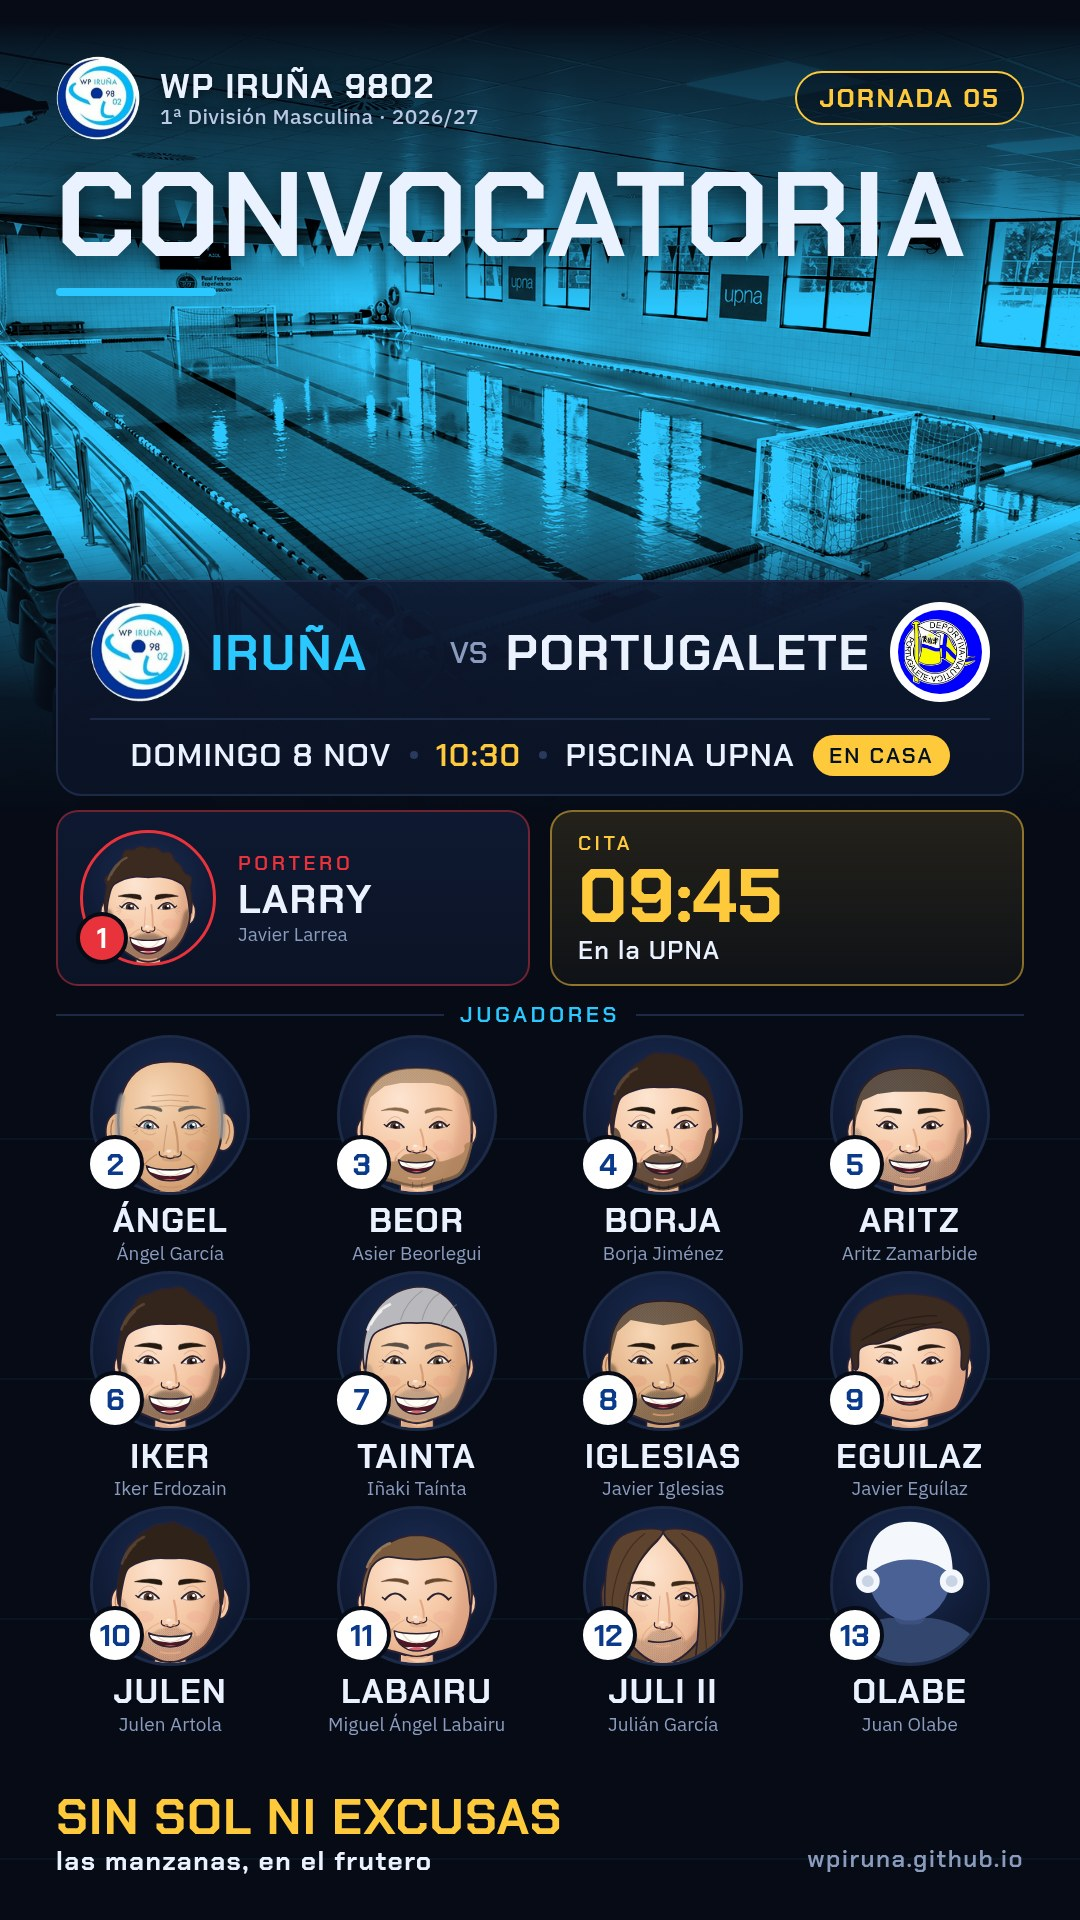
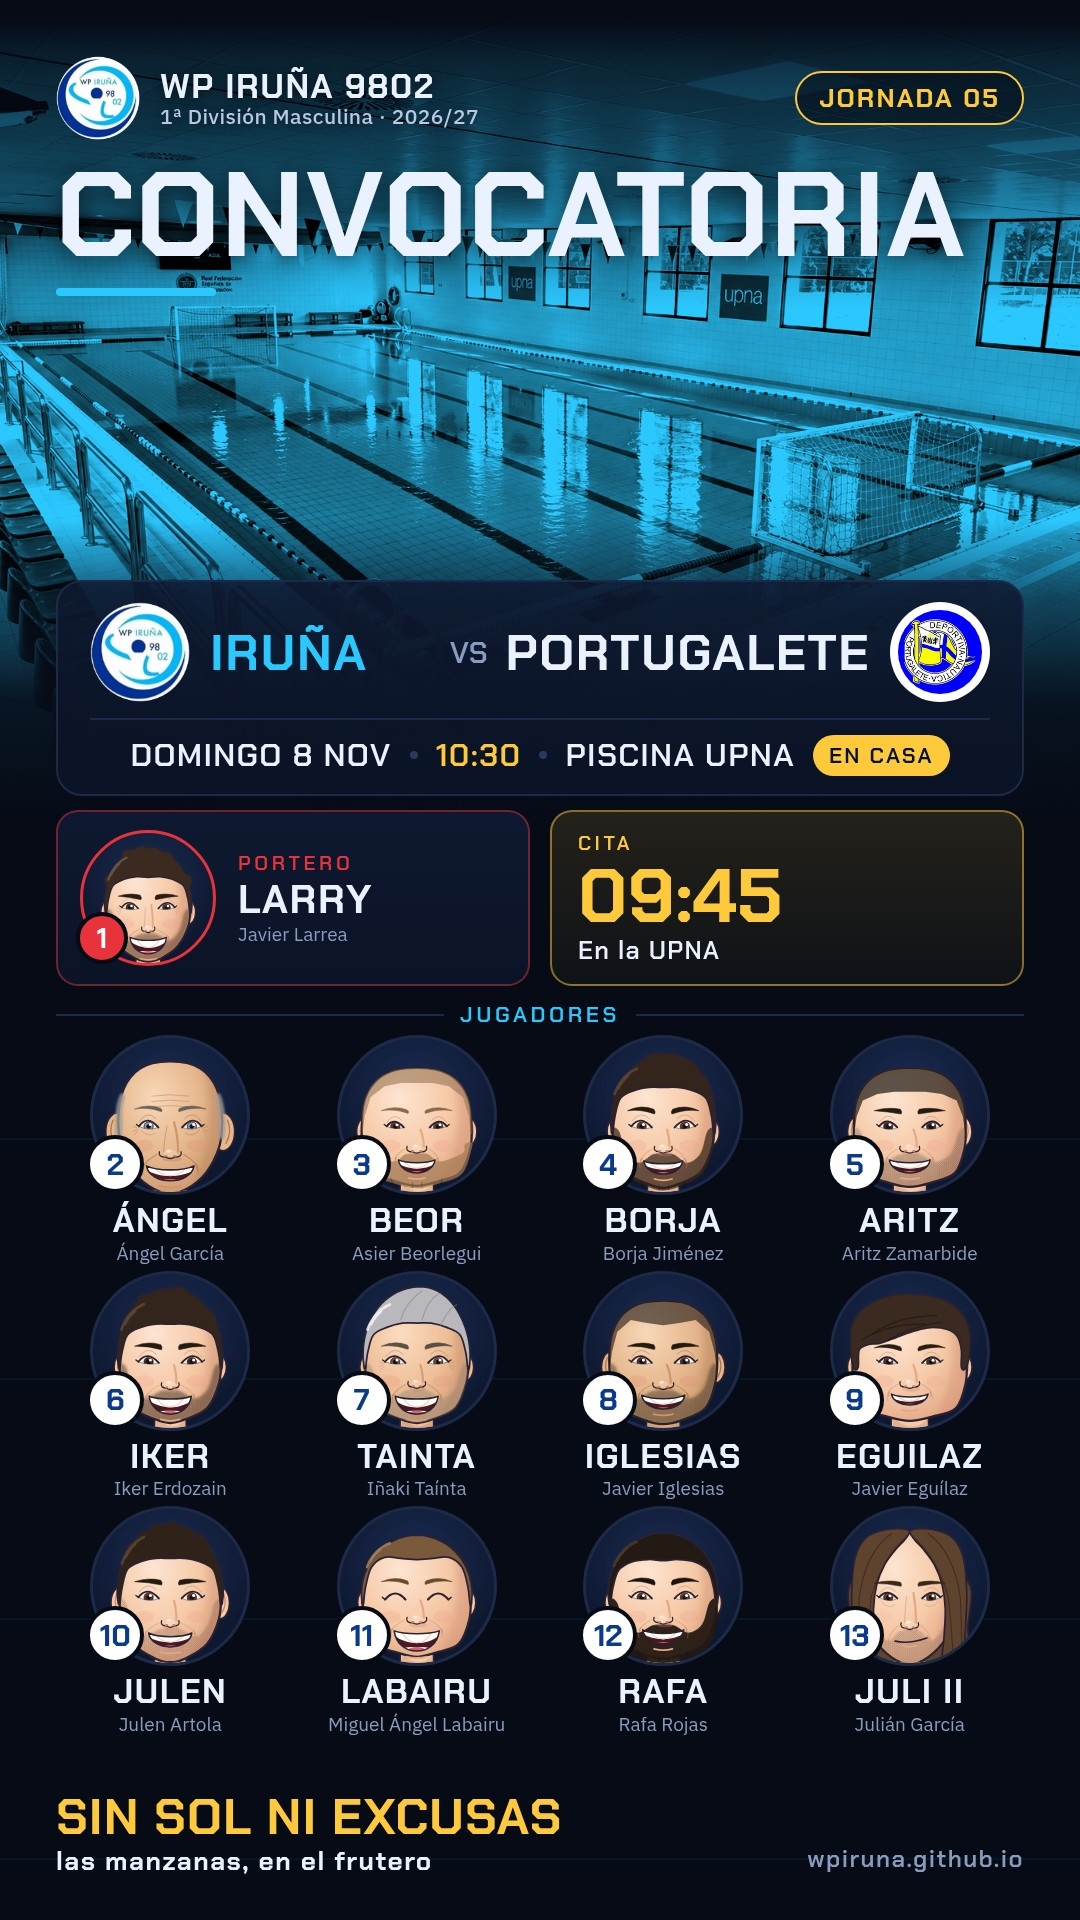
Convocatoria J5 como se jugó: Rafa con el 12 y Juli II con el 13
Claude-Session: https://claude.ai/code/session_01S6bySciHEMQUkuyXjuaSNx

Changed region(s): [[0.7639, 0.7812, 0.9167, 0.9062], [0.55, 0.7812, 0.6722, 0.9062]]

diff --git a/data/datos.js b/data/datos.js
@@ -176,7 +176,7 @@ window.DATOS = {
       cronica: { titulo: "Iruña 13, Portugalete 18: se plantó cara hasta el final",
                  texto: "Domingo, 10:30, y enfrente uno de los cocos de la liga: el Portugalete, el ataque más goleador del campeonato, con 85 goles en cuatro partidos. El Iruña salió sin complejos. Julen abrió de penalti a los 17 segundos y Beor hizo el 2-0 antes del primer minuto. Eguilaz volvió a ponernos por delante (3-2), Juli II empató a cuatro y solo un gol de Pocero a 17 segundos de la bocina dejó el primer cuarto en 4-5.\n\nFue un partido de mucho nivel, de los que se juegan con los dientes apretados. Portugalete apretó en el segundo cuarto hasta el 4-7 y el Iruña respondió con carácter: Iglesias, Borja por partida doble y Julen, a siete segundos del descanso, dejaron el 8-9. En el tercero, más de lo mismo. Cada vez que se iban, volvíamos: Julen puso el 9-11, Iglesias el 10-12 y Juli II el 11-12 a falta de 1:41.\n\nAhí se rompió el partido. En el último minuto y medio del tercer cuarto, el Portugalete metió cuatro goles seguidos, dos de Sanado, uno de De Lucas y otro de Riol a un segundo de la bocina, con la tercera exclusión de Beor por en medio, y se fue al último cuarto con 11-16. Es lo que tiene un equipo tan potente: te perdona poco. Nos pitaron doce exclusiones, sacaron cuatro de esas superioridades, y Riol y De Lucas, con cuatro goles cada uno, castigaron cada despiste.\n\nPero este equipo no sabe bajar los brazos. El último cuarto acabó 2-2, con Juli II y Julen cerrando el 13-18. Julen se fue a cuatro goles, Juli II a tres, y Borja e Iglesias a dos. Y un dato que dice mucho del trabajo atrás: Barcina, su máximo goleador de la liga, se fue de la UPNA sin marcar.\n\nEso sí, el Manzano no descansa ni en los días de pelea. Las estadísticas dejan dos rojas, a Eguilaz y a Ángel, y los penaltis cometidos de Borja e Iker. El vestuario, además, le cuelga a Ángel una manzanada extra por estrellarla en el larguero a un metro y con la portería vacía. Y aquí viene lo gordo, porque hoy hemos asistido a una remontada histórica. Ángel llegó a la UPNA con el expediente inmaculado: cero manzanadas en cinco partidos, el ejemplo que se pone a los cadetes. En 32 minutos ha pasado de no tener ninguna a ser líder en solitario del Manzano del año, con seis, por delante de Tainta, Julen y Eguilaz. Ni en el Bernabéu se recuerdan remontadas así. Desde hoy, el vestuario ya sabe a quién mirar cuando caiga la primera manzana.\n\nY para acabar, lo más importante: desde la grada, la afición sale muy orgullosa de este equipo. Por la cara que se le plantó a un rival tan potente, por lo que se peleó cada balón hasta el último segundo y porque, en muchas fases del partido, en la UPNA se vio waterpolo de muy alto nivel. Así se pierde con la cabeza bien alta. Seguimos sextos, con 9 puntos, y con muchas ganas de más. El sábado 21 toca derbi: Larraina, en la UPNA, a las 18:00." },
       cartel: { foto: "img/carteles/j05.jpg", encuadre: "52% 30%" },
-      convocatoria: "img/convocatorias/j05-portugalete.jpg" },
+      convocatoria: "img/convocatorias/j05-portugalete.jpg?v=2" },
     { id: "p06", fecha: "2026-10-18", hora: "10:30", local: "askartza", visitante: "iruna",    piscina: "Claret Askartza Kiroldegia",
       resultado: { local: 12, visitante: 3 },
       parciales: [[3,1],[3,0],[3,1],[3,1]],

diff --git a/index.html b/index.html
@@ -11,7 +11,7 @@
   <link rel="preconnect" href="https://fonts.googleapis.com">
   <link rel="preconnect" href="https://fonts.gstatic.com" crossorigin>
   <link href="https://fonts.googleapis.com/css2?family=Chakra+Petch:wght@500;600;700&family=IBM+Plex+Sans:wght@400;500;600;700&display=swap" rel="stylesheet">
-  <link rel="stylesheet" href="css/styles.css?v=20261108-1">
+  <link rel="stylesheet" href="css/styles.css?v=20261108-2">
   <style>:root { padding-top: env(safe-area-inset-top, 0px); }</style>
 </head>
 <body>
@@ -258,7 +258,7 @@
       document.head.appendChild(gc);
     }
   </script>
-  <script src="data/datos.js?v=20261108-1"></script>
-  <script src="js/app.js?v=20261108-1"></script>
+  <script src="data/datos.js?v=20261108-2"></script>
+  <script src="js/app.js?v=20261108-2"></script>
 </body>
 </html>
